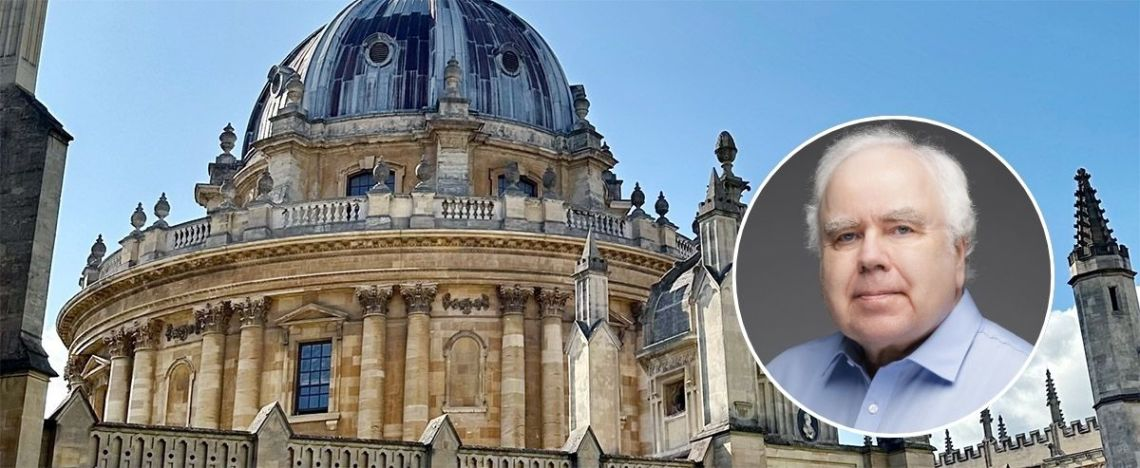
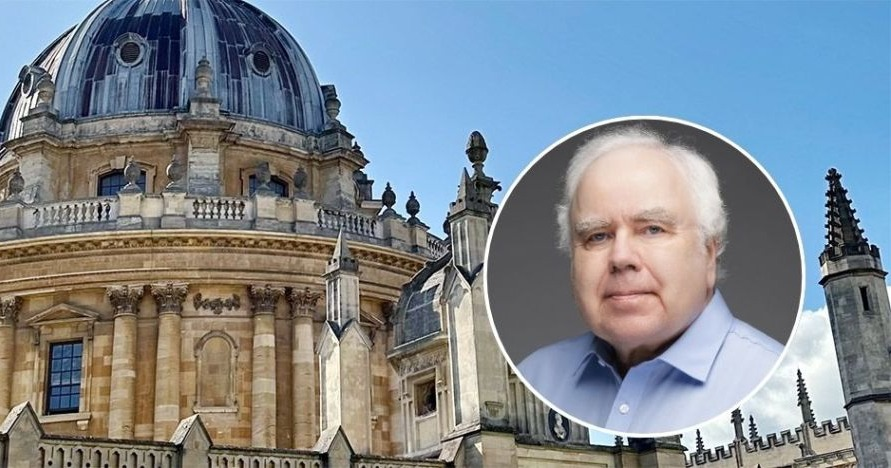
fix(covers): keep the inset portrait whole and credit the cover image
Review measured what I had only eyeballed: the centred cover crop of the
1140x468 banner cut the frame at source x=1015 while the inset circle runs
to x=1093, slicing its right arc off so the portrait bled to the edge. The
committed JPEG is now the right-hand 891x468 of the download, which is
exactly the 1200x630 aspect, so the fit is a pure upscale that crops
nothing. Verified by locating the ring: it now closes 128px inside the
frame.

The cover also appeared in the listing and as the social preview with no
credit anywhere a viewer sees, unlike the in-post Oxford image. Credit the
University of Oxford in the cover caption and record the crop in
cover-source.txt.

Claude-Session: https://claude.ai/code/session_01Y3jXEg6kUyZYtNhcUY3uLq

diff --git a/docs/posts/brian-ripley-rousseeuw-prize/index.html b/docs/posts/brian-ripley-rousseeuw-prize/index.html
@@ -173,7 +173,7 @@ ul.task-list li input[type="checkbox"] {
 <div class="quarto-figure quarto-figure-center">
 <figure class="figure">
 <p><img src="./cover.png" class="img-fluid figure-img"></p>
-<figcaption>The Professor Who Let Us Break R First</figcaption>
+<figcaption>Brian Ripley, with the Radcliffe Camera behind him. Image: <a href="https://www.ox.ac.uk/news/2026-07-22-oxford-university-statistician-co-awarded-prestigious-1-million-rousseeuw-prize">University of Oxford</a></figcaption>
 </figure>
 </div>
 <p>Most applied statistics published in the last twenty-five years was computed by software that somebody had to keep working. A good deal of it ran on <a href="https://www.r-project.org/">R</a>, the free language that statisticians write their methods in. Keeping R working is not one job. It is a permanent one. The language has to still compile on this year’s compilers and this year’s machines. A function that gave the right answer in 2004 has to give it now. And the thousands of add-on packages built on top of R must not break when the floor moves under them.</p>
